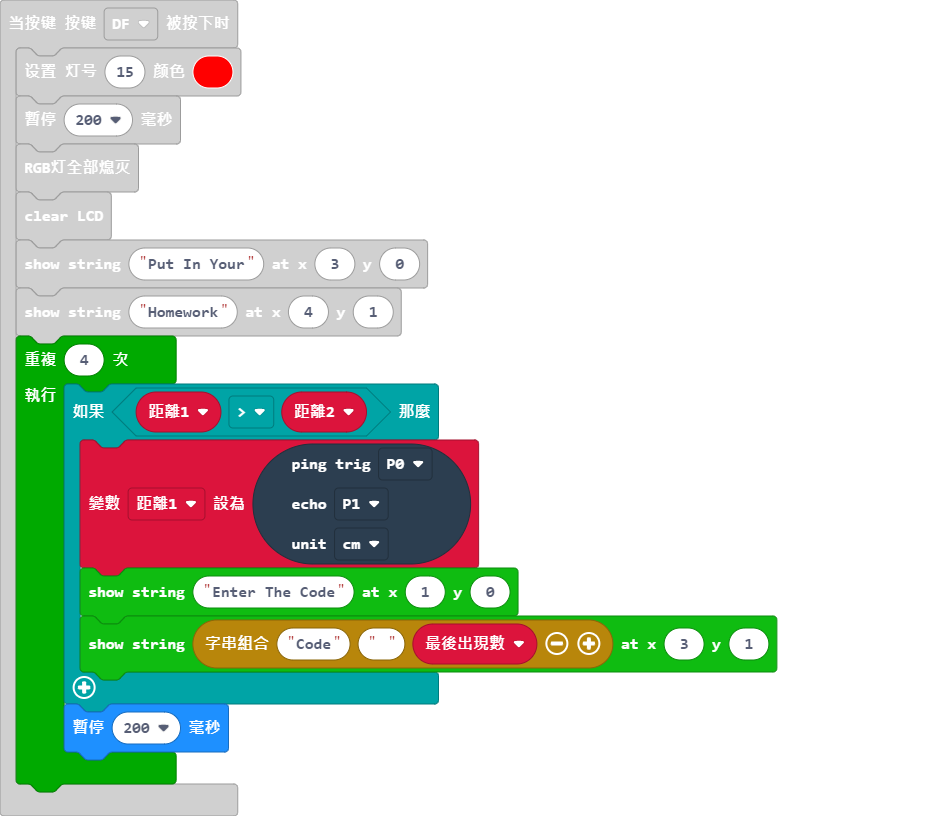
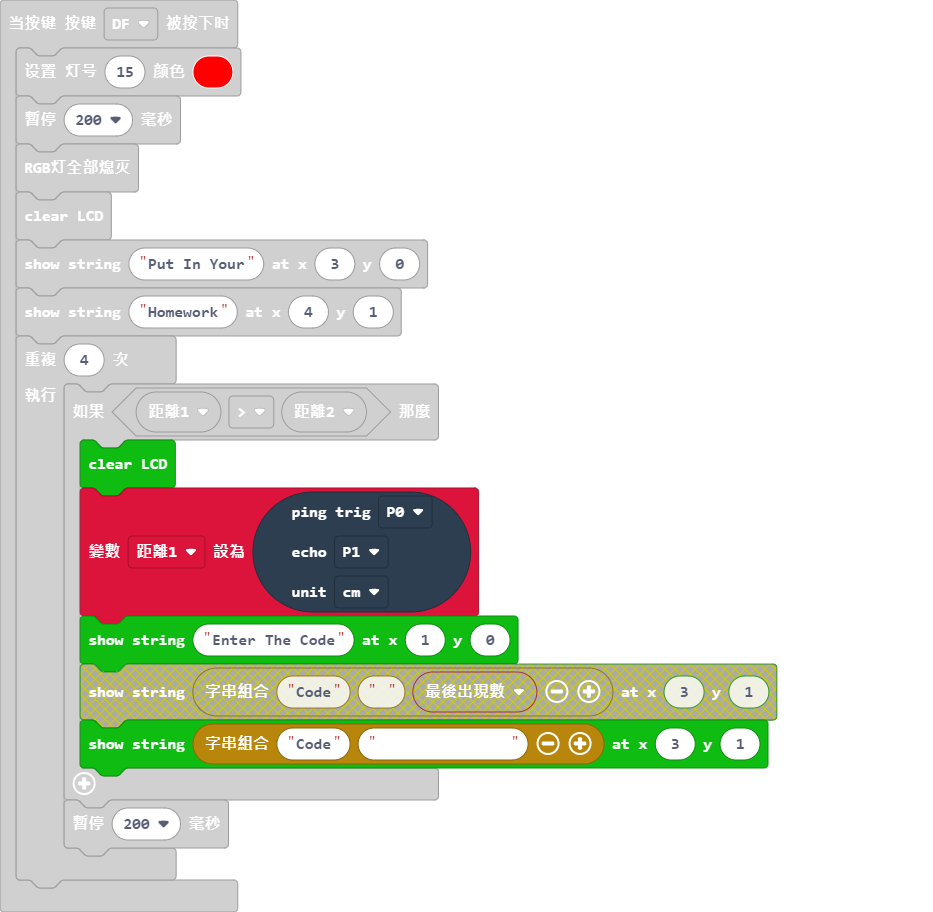
更新 main.blocks, main.ts

Changed region(s): [[0.0, 0.0, 0.8392, 0.9804], [0.4973, 0.6127, 0.5284, 0.6434]]

diff --git a/main.ts b/main.ts
@@ -13,13 +13,14 @@ keyboard.kbEvent(KeyValue.keydf, function () {
     I2C_LCD1602.ShowString("Homework", 4, 1)
     for (let index = 0; index < 4; index++) {
         if (距離1 > 距離2) {
+            I2C_LCD1602.clear()
             距離1 = sonar.ping(
             DigitalPin.P0,
             DigitalPin.P1,
             PingUnit.Centimeters
             )
             I2C_LCD1602.ShowString("Enter The Code", 1, 0)
-            I2C_LCD1602.ShowString("Code" + " " + 最後出現數, 3, 1)
+            I2C_LCD1602.ShowString("Code" + "               ", 3, 1)
         }
         basic.pause(200)
     }
